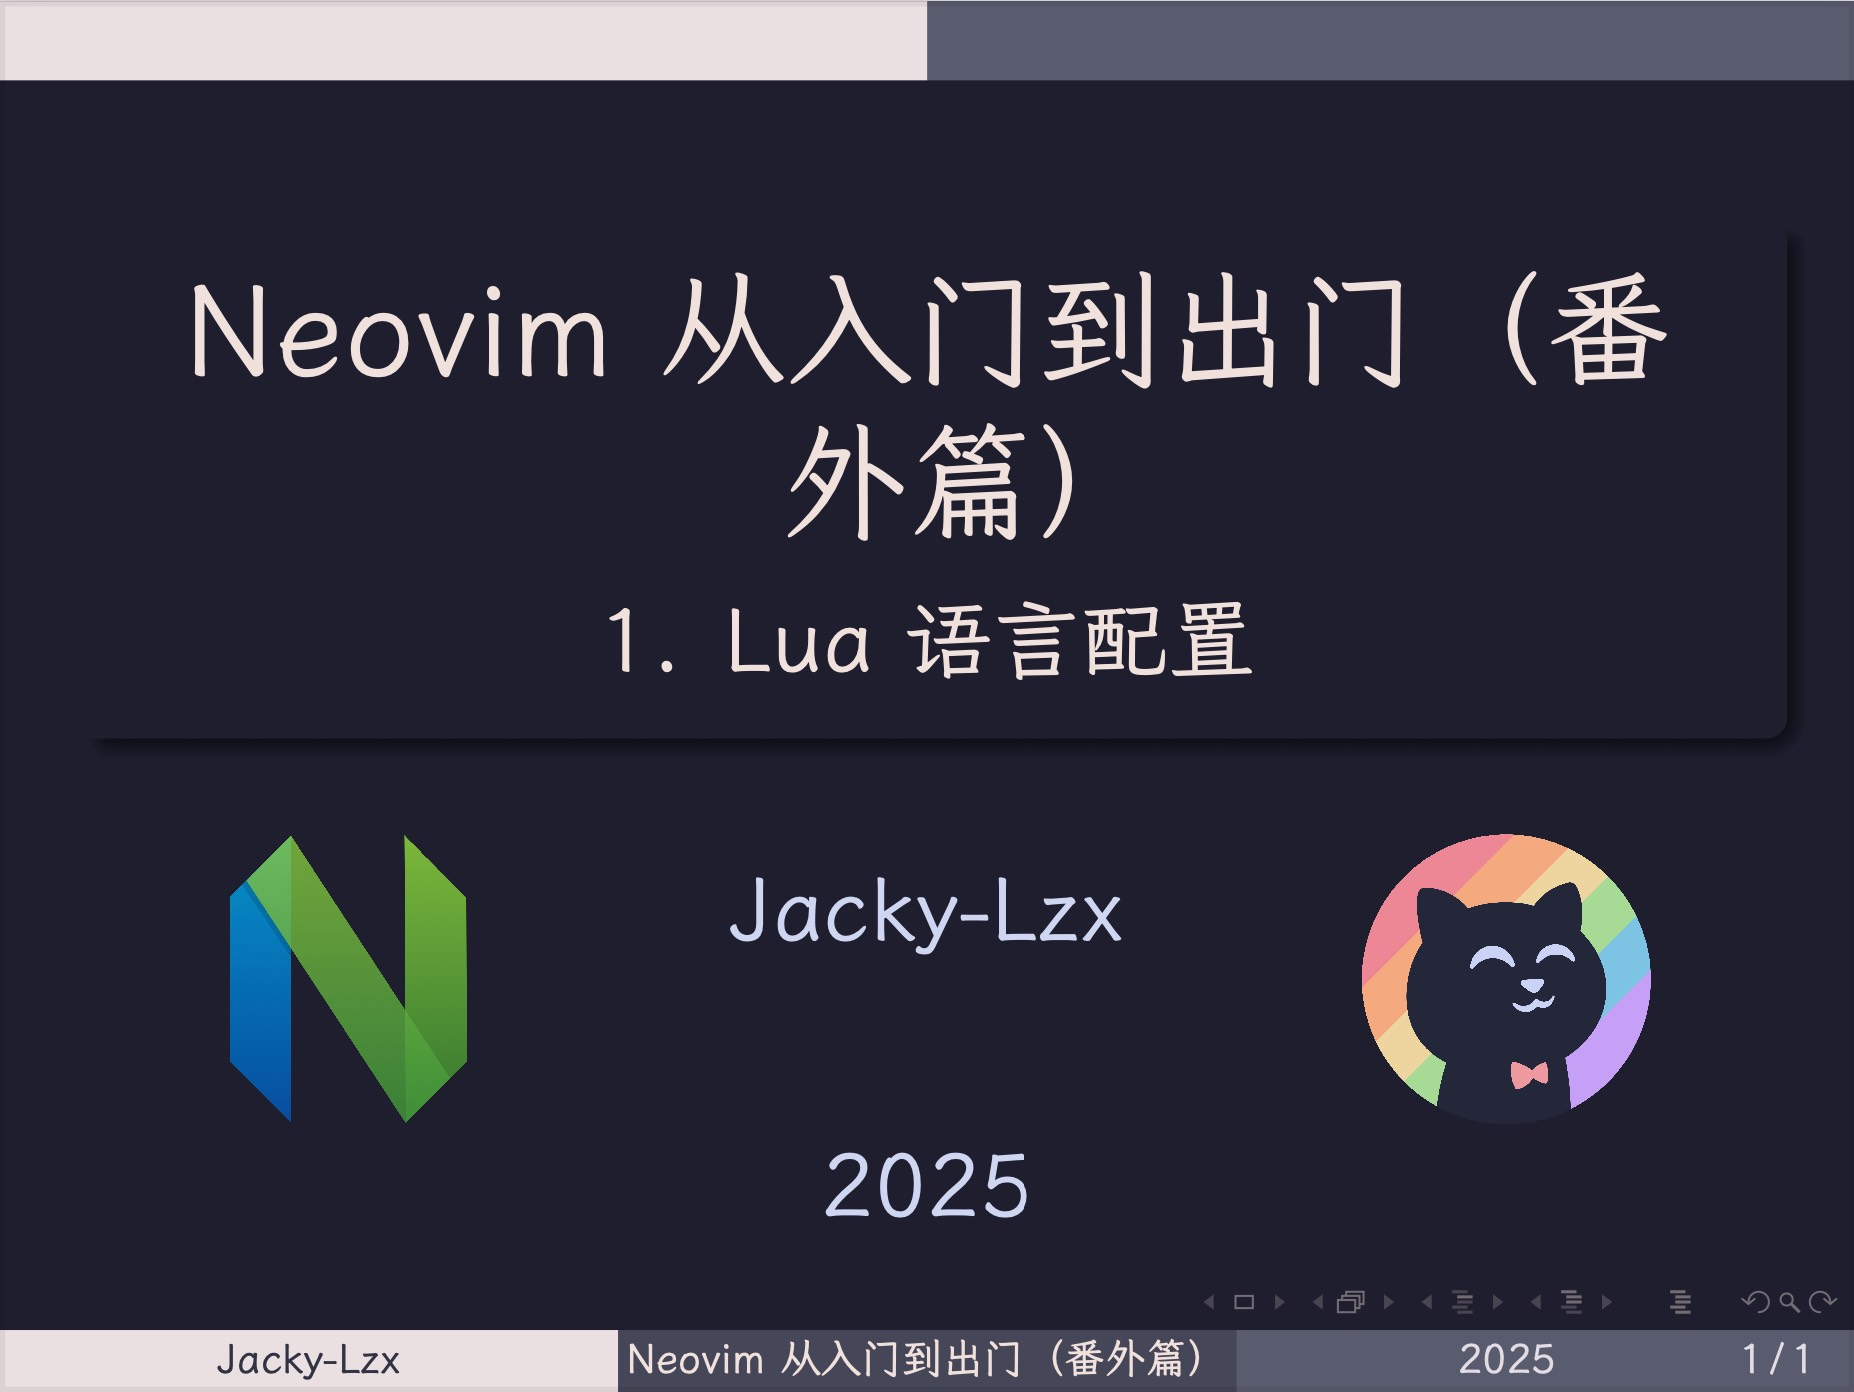
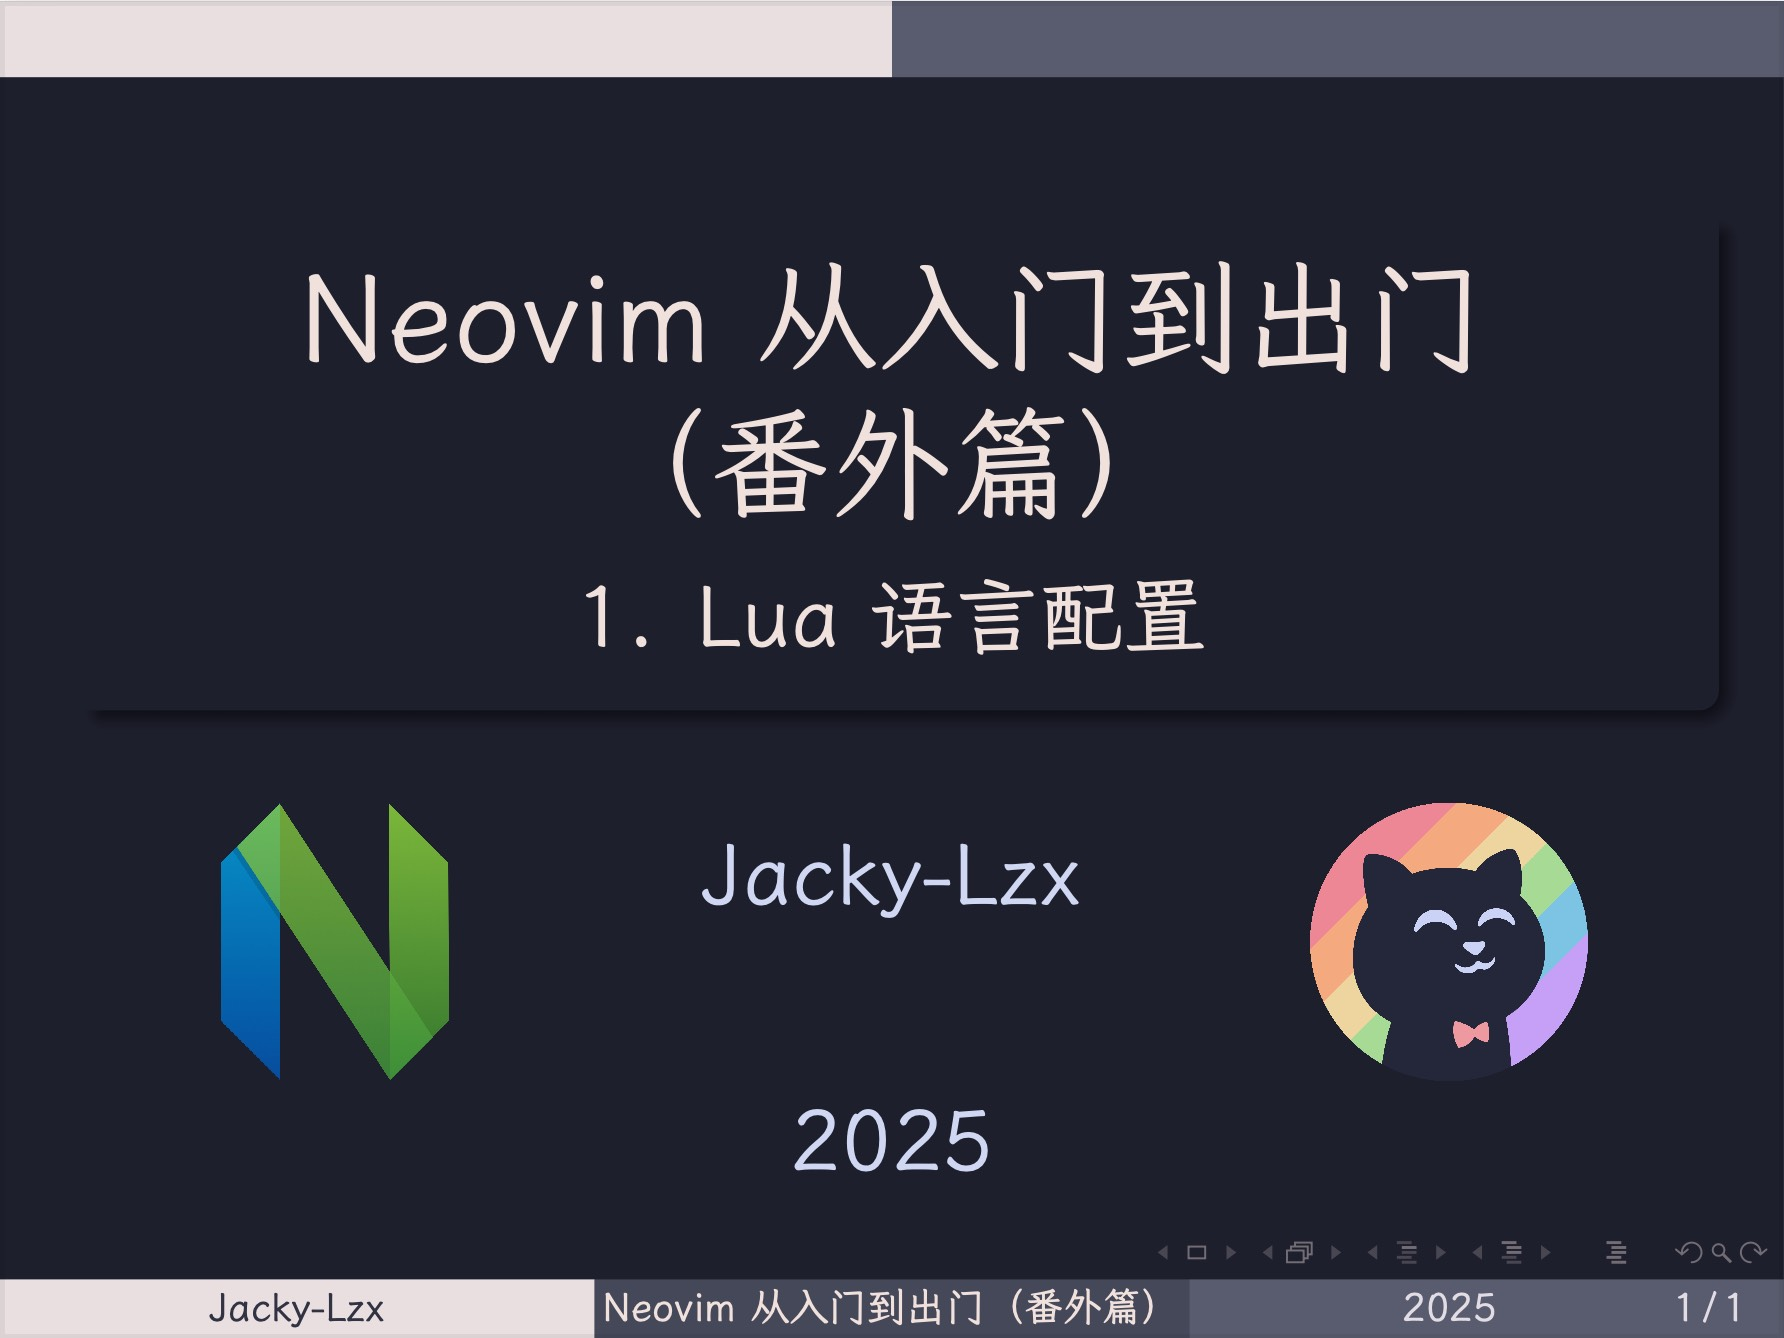
fix(chapter_ex_1): fixed a typo in the cover page.

diff --git a/Chapter_Ex_1_Lua/Chapter_Ex_1_Cover_Page.tex b/Chapter_Ex_1_Lua/Chapter_Ex_1_Cover_Page.tex
@@ -96,7 +96,7 @@
 %   \usebeamercolor[fg]{titlegraphic}\inserttitlegraphic
 % }
 
-\title{Neovim从入门到出门（番外篇）}
+\title{Neovim从入门到出门\\（番外篇）}
 \subtitle{1. Lua语言配置}
 \author{Jacky-Lzx}
 \date{2025}
